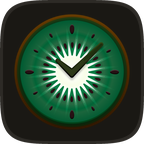
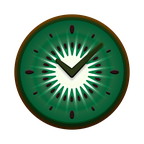
+

diff --git a/index.html b/index.html
@@ -140,7 +140,7 @@
                   <h3 class="work-title">Kiwido</h3>
                   <p class="work-subtitle">Week planning</p>
                   <div class="work-store">
-                    <span class="work-store-label">App Store · 156×52</span>
+                    <span class="work-store-label">Launch badge slot</span>
                   </div>
                 </div>
               </div>
@@ -150,10 +150,48 @@
                 to-do app and more like seeing the shape of the week at a glance.
               </p>
               <div class="work-gallery" role="region" aria-label="Kiwido screens" tabindex="0">
-                <div class="work-shot"><span class="work-shot-label">Screen 01 · 4:5</span></div>
-                <div class="work-shot"><span class="work-shot-label">Screen 02 · 4:5</span></div>
-                <div class="work-shot"><span class="work-shot-label">Screen 03 · 4:5</span></div>
-                <div class="work-shot"><span class="work-shot-label">Screen 04 · 4:5</span></div>
+                <div class="work-shot">
+                  <span class="work-shot-label">
+                    <span class="work-shot-kicker">Raw screenshot 01</span>
+                    <span class="work-shot-title">Week board</span>
+                    <span class="work-shot-note">A populated day column with tasks, calendar, reminders, and weather context.</span>
+                  </span>
+                </div>
+                <div class="work-shot">
+                  <span class="work-shot-label">
+                    <span class="work-shot-kicker">Cropped detail 02</span>
+                    <span class="work-shot-title">Mixed row language</span>
+                    <span class="work-shot-note">Board-local task, Calendar event, and Reminder rows showing distinct markers.</span>
+                  </span>
+                </div>
+                <div class="work-shot">
+                  <span class="work-shot-label">
+                    <span class="work-shot-kicker">Raw screenshot 03</span>
+                    <span class="work-shot-title">Planner grid</span>
+                    <span class="work-shot-note">The zoomed-out week grid that shows the board becoming a wider plan.</span>
+                  </span>
+                </div>
+                <div class="work-shot">
+                  <span class="work-shot-label">
+                    <span class="work-shot-kicker">Raw screenshot 04</span>
+                    <span class="work-shot-title">Next Up</span>
+                    <span class="work-shot-note">Agenda-style surface with the nearest useful tasks, events, and reminders.</span>
+                  </span>
+                </div>
+                <div class="work-shot">
+                  <span class="work-shot-label">
+                    <span class="work-shot-kicker">Cropped detail 05</span>
+                    <span class="work-shot-title">Month view</span>
+                    <span class="work-shot-note">Month navigation with preview pills and today or selected-day emphasis.</span>
+                  </span>
+                </div>
+                <div class="work-shot">
+                  <span class="work-shot-label">
+                    <span class="work-shot-kicker">Cropped detail 06</span>
+                    <span class="work-shot-title">Perfect Day</span>
+                    <span class="work-shot-note">Completion bar, heatmap, medal, or gold moment that shows satisfying progress.</span>
+                  </span>
+                </div>
               </div>
             </li>
             <li class="work-row" data-reveal>
@@ -163,7 +201,7 @@
                   <h3 class="work-title">Upkeeper</h3>
                   <p class="work-subtitle">Recurring care</p>
                   <div class="work-store">
-                    <span class="work-store-label">App Store · 156×52</span>
+                    <span class="work-store-label">Launch badge slot</span>
                   </div>
                 </div>
               </div>
@@ -173,10 +211,48 @@
                 and Upkeeper learns the pattern and nudges gently, not sternly.
               </p>
               <div class="work-gallery" role="region" aria-label="Upkeeper screens" tabindex="0">
-                <div class="work-shot"><span class="work-shot-label">Screen 01 · 4:5</span></div>
-                <div class="work-shot"><span class="work-shot-label">Screen 02 · 4:5</span></div>
-                <div class="work-shot"><span class="work-shot-label">Screen 03 · 4:5</span></div>
-                <div class="work-shot"><span class="work-shot-label">Screen 04 · 4:5</span></div>
+                <div class="work-shot">
+                  <span class="work-shot-label">
+                    <span class="work-shot-kicker">Raw screenshot 01</span>
+                    <span class="work-shot-title">Home status</span>
+                    <span class="work-shot-note">Dashboard plus Next, Needs Care, Coming Up, Learning, or All Good sections.</span>
+                  </span>
+                </div>
+                <div class="work-shot">
+                  <span class="work-shot-label">
+                    <span class="work-shot-kicker">Raw screenshot 02</span>
+                    <span class="work-shot-title">Add Action</span>
+                    <span class="work-shot-note">The once-per-item capture flow with name and curated icon choice.</span>
+                  </span>
+                </div>
+                <div class="work-shot">
+                  <span class="work-shot-label">
+                    <span class="work-shot-kicker">Cropped detail 03</span>
+                    <span class="work-shot-title">Log Today</span>
+                    <span class="work-shot-note">A just-logged Action, filled check affordance, snackbar, or Done Today move.</span>
+                  </span>
+                </div>
+                <div class="work-shot">
+                  <span class="work-shot-label">
+                    <span class="work-shot-kicker">Raw screenshot 04</span>
+                    <span class="work-shot-title">Detail and history</span>
+                    <span class="work-shot-note">Rhythm, editable log days, archive controls, and history as context.</span>
+                  </span>
+                </div>
+                <div class="work-shot">
+                  <span class="work-shot-label">
+                    <span class="work-shot-kicker">Cropped detail 05</span>
+                    <span class="work-shot-title">Gentle nudges</span>
+                    <span class="work-shot-note">Reminder readiness, learned cadence, target rate, or next check-in copy.</span>
+                  </span>
+                </div>
+                <div class="work-shot">
+                  <span class="work-shot-label">
+                    <span class="work-shot-kicker">Raw screenshot 06</span>
+                    <span class="work-shot-title">Status overview</span>
+                    <span class="work-shot-note">Full Stats surface with distribution, upcoming windows, logs, and insights.</span>
+                  </span>
+                </div>
               </div>
             </li>
           </ul>

diff --git a/styles.css b/styles.css
@@ -265,7 +265,7 @@
 
     --read-progress: 0%;
 
-    /* App icons: squircle-masked exports of the shipping AppIcon assets */
+    /* App icons: 144px transparent exports from the shared appicon masters */
     --app-icon-kiwido: url('assets/kiwido-icon-light.png');
     --app-icon-upkeeper: url('assets/upkeeper-icon-light.png');
 
@@ -1061,9 +1061,10 @@
     border-radius: var(--radius-xs);
   }
 
-  /* PLACEHOLDER — replace each .work-shot with an <img> at 4:5 and delete these
-     two rules. Keep aspect-ratio on the image so the strip reserves its height
-     while the files load. */
+  /* PLACEHOLDER — replace each .work-shot with an <img> at 4:5 and delete the
+     placeholder-only label rules below. Keep aspect-ratio on the image so the
+     strip reserves its height while the files load. The six labels are the
+     asset brief for the pre-launch product shelf. */
   .work-shot {
     flex: 0 0 auto;
     inline-size: min(21rem, 72vw);
@@ -1079,12 +1080,32 @@
   }
 
   .work-shot-label {
+    display: grid;
+    gap: var(--space-3);
+    max-width: 17rem;
     font-size: var(--text-label);
     font-weight: var(--font-weight-medium);
-    letter-spacing: var(--tracking-caps-wide);
-    text-transform: uppercase;
     line-height: var(--leading-snug);
     color: var(--color-text-muted);
+  }
+
+  .work-shot-kicker,
+  .work-shot-title {
+    letter-spacing: var(--tracking-caps-wide);
+    text-transform: uppercase;
+  }
+
+  .work-shot-title {
+    color: var(--color-text-primary);
+  }
+
+  .work-shot-note {
+    font-size: 0.82rem;
+    font-weight: var(--font-weight-regular);
+    letter-spacing: 0;
+    text-transform: none;
+    line-height: var(--leading-body);
+    color: var(--color-text-secondary);
   }
 
   /* Icon sits with the name, not in its own track. Alone in a column it read as
